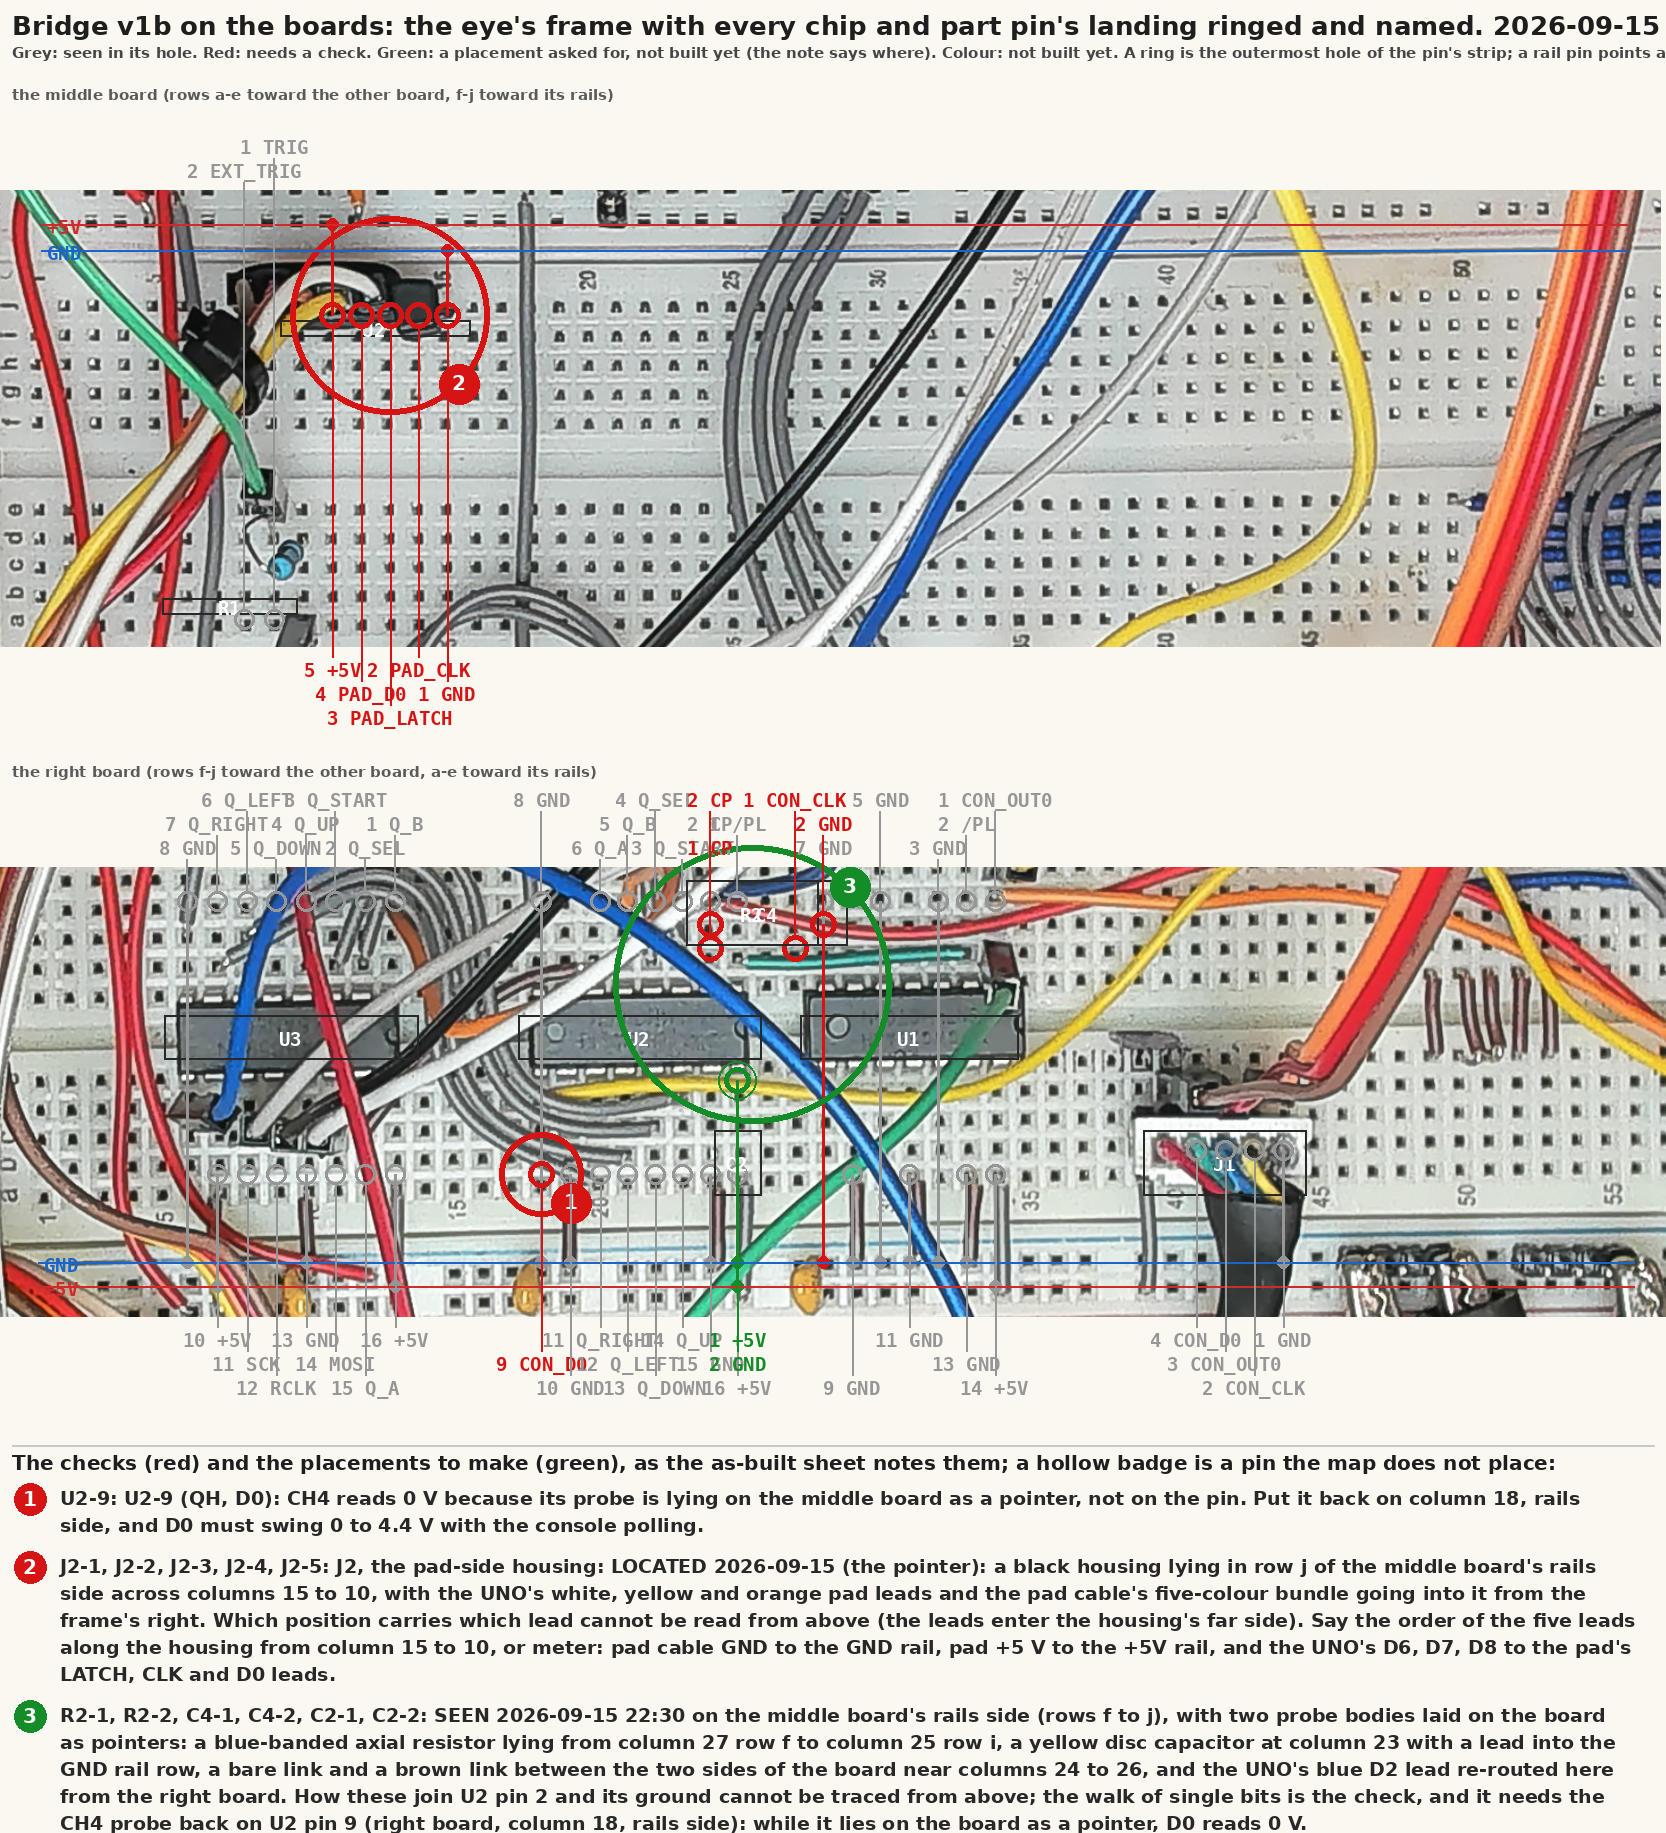
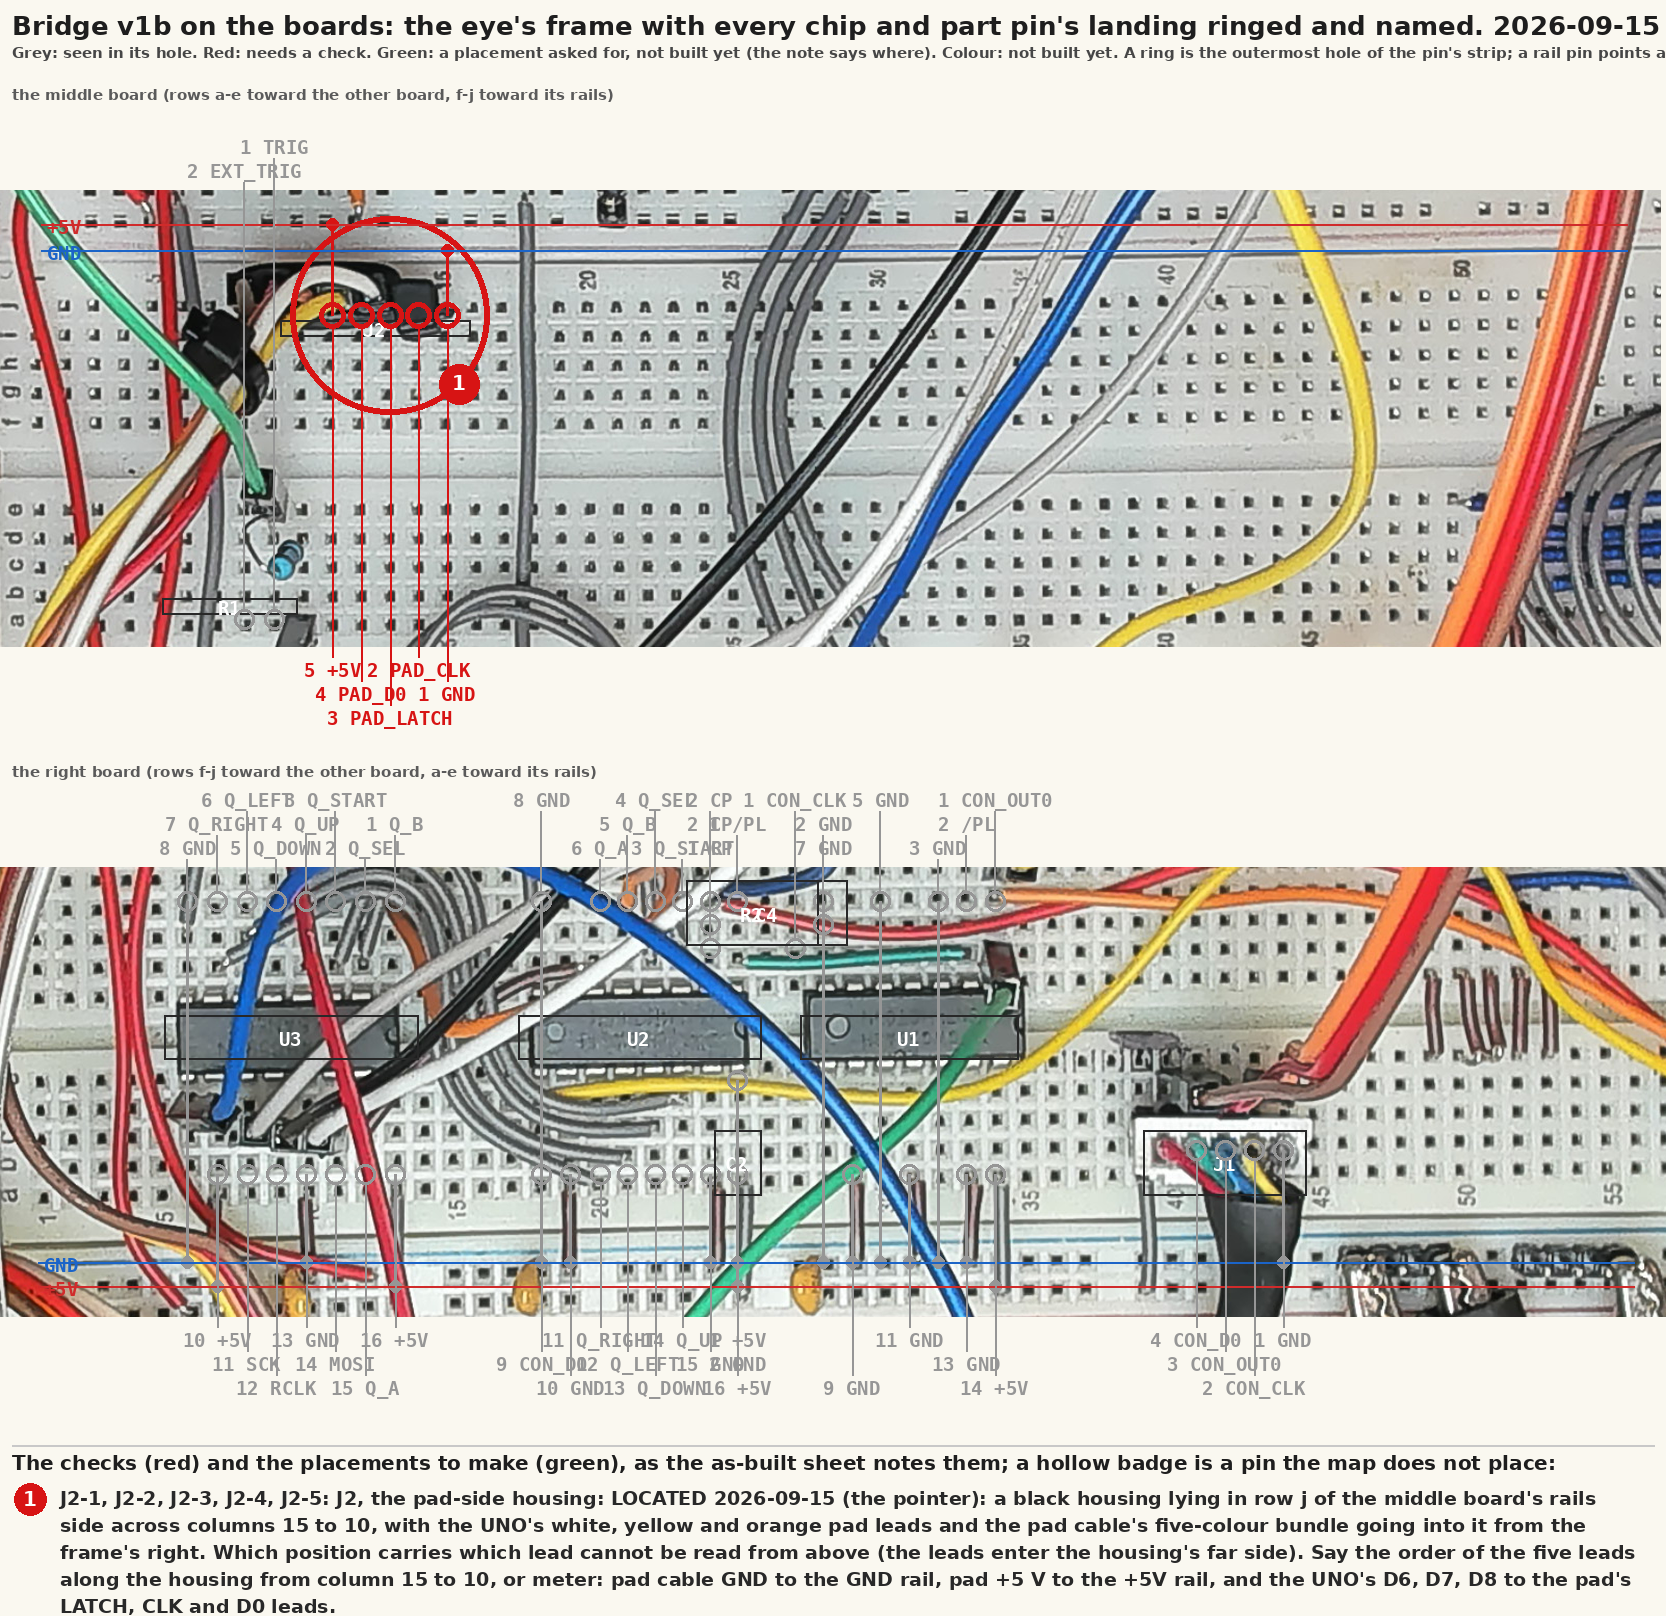
The register walk reads right through the console: the clock filter and decoupling done, the Q pairing proven, rev M
All fifteen bytes walked through the 595 come back on D0 at their own
positions, where a lone middle bit used to read at the Right position.
The filter and decoupling are done on the sheet where they sit; the
last checks on the chip pins are cleared; the cheat sheet's scope table
carries each probe as the instrument identified it (ff makes D0 flat,
the latch pulses whatever is held).

Claude-Session: https://claude.ai/code/session_01BdJ3NUxHSKQzEFUn9ViLv2

diff --git a/tools/cheatsheet.py b/tools/cheatsheet.py
@@ -236,10 +236,10 @@ def pinmap(sheet="bench-v1b"):
 # when it is, TRIG and the clock share CH1 by turns. CH3 is where the
 # video probe has sat since 2026-09-07 (1,512 sync pulses counted there).
 SCOPE = [
-    ("CH1", "TRIG", "R1 on the middle board: the resistor at column 49 row f, the green D3 lead's housing at 47", "the trigger: 2.5 V rising at latch T; the master clock's channel later, by turns"),
-    ("CH2", "CON_OUT0 (latch)", "U1 pin 1: right board column 34, the side toward U2 (rows f to j)", "one pulse per poll, 3.6 us wide; the probe's lead broke 2026-09-15 and the channel is idle until it is replaced"),
+    ("CH1", "TRIG", "R1 on the middle board: the resistor in row a from column 9 (the green D3 lead's housing) to column 6 (the red lead to the scope)", "the trigger: 2.5 V rising at latch T, 5.4 V for 874 us (MEASURED 2026-09-15); the master clock's channel later, by turns"),
+    ("CH2", "CON_OUT0 (latch)", "U1 pin 1: right board column 34, the side toward U2 (rows f to j)", "one pulse per poll, 3.6 us wide, 60.06 a second; a new lead 2026-09-15 evening"),
     ("CH3", "composite video", "the console's video out, through the splitter", "the picture the poll lands in"),
-    ("CH4", "CON_D0", "U2 pin 9: right board column 18, the rails side (rows a to e)", "the byte the console reads back, pressed LOW"),
+    ("CH4", "CON_D0", "U2 pin 9: right board column 18, the rails side (rows a to e)", "the byte the console reads back, pressed LOW: high through the eight bits for 00, low for ff (MEASURED 2026-09-15 23:00, which is how the two probes were told apart)"),
     ("EXT TRIG", "none", "not on this scope", "the DS1054Z has no external trigger input (MEASURED 2026-09-15: source EXT refused; the rear BNC is Trig Out)"),
 ]
 # Every probe's ground on the right board's GND rail, and the probes on

diff --git a/docs/cheat-sheet.md b/docs/cheat-sheet.md
@@ -68,10 +68,10 @@ As wired 2026-09-15, each probe's landing given as a board column so it can be p
 
 | input | signal | probe on | why |
 |---|---|---|---|
-| CH1 | TRIG | R1 on the middle board: the resistor at column 49 row f, the green D3 lead's housing at 47 | the trigger: 2.5 V rising at latch T; the master clock's channel later, by turns |
-| CH2 | CON_OUT0 (latch) | U1 pin 1: right board column 34, the side toward U2 (rows f to j) | one pulse per poll, 3.6 us wide; the probe's lead broke 2026-09-15 and the channel is idle until it is replaced |
+| CH1 | TRIG | R1 on the middle board: the resistor in row a from column 9 (the green D3 lead's housing) to column 6 (the red lead to the scope) | the trigger: 2.5 V rising at latch T, 5.4 V for 874 us (MEASURED 2026-09-15); the master clock's channel later, by turns |
+| CH2 | CON_OUT0 (latch) | U1 pin 1: right board column 34, the side toward U2 (rows f to j) | one pulse per poll, 3.6 us wide, 60.06 a second; a new lead 2026-09-15 evening |
 | CH3 | composite video | the console's video out, through the splitter | the picture the poll lands in |
-| CH4 | CON_D0 | U2 pin 9: right board column 18, the rails side (rows a to e) | the byte the console reads back, pressed LOW |
+| CH4 | CON_D0 | U2 pin 9: right board column 18, the rails side (rows a to e) | the byte the console reads back, pressed LOW: high through the eight bits for 00, low for ff (MEASURED 2026-09-15 23:00, which is how the two probes were told apart) |
 | EXT TRIG | none | not on this scope | the DS1054Z has no external trigger input (MEASURED 2026-09-15: source EXT refused; the rear BNC is Trig Out) |
 
 ## U1: 74HCT04  at +5V

diff --git a/docs/procedures/2026-09-13-breadboard-qa.md b/docs/procedures/2026-09-13-breadboard-qa.md
@@ -554,3 +554,24 @@ from column 25 row a to the GND rail hole beside it) and the
 photograph redrawn; the lesson for the tool is that a placement note
 should be generated from the map's pin positions, not written beside
 them.
+
+## The walk reads right, 2026-09-15 23:00
+
+With the clock filter and the decoupling placed (on the middle board,
+joined to U2 by leads the eye cannot trace) and both probes back on
+the board, the walk of single bits through the register came back
+right for all fifteen bytes tried: 00, ff, each bit alone, 06, 7f, 55,
+aa and 1b, every pressed bit at its own position on D0
+(`docs/lab/17-walk-02-after-the-filter.png`, `17-walk-55-...`). Before
+the filter, a lone bit from B to Left read at the Right position. That
+closes the sliver, proves the six grey Q lines pair the 595's outputs
+to the 165's inputs as the sheet says, and clears the last checks on
+the chip pins.
+
+Two things the instrument settled that the eye and the word could not:
+the two probes were reported the other way round (CH2 on D0, CH4 on
+the latch); held bytes told them apart in one look (ff makes D0 flat,
+the latch's 3.6 us pulse is there whatever is held), so CH2 is the
+latch and CH4 is D0, as the cheat sheet has them. And two inert
+pointers laid on the board read as probe bodies from above; the sheet
+now says where each probe is, and a pointer is a pointer.
